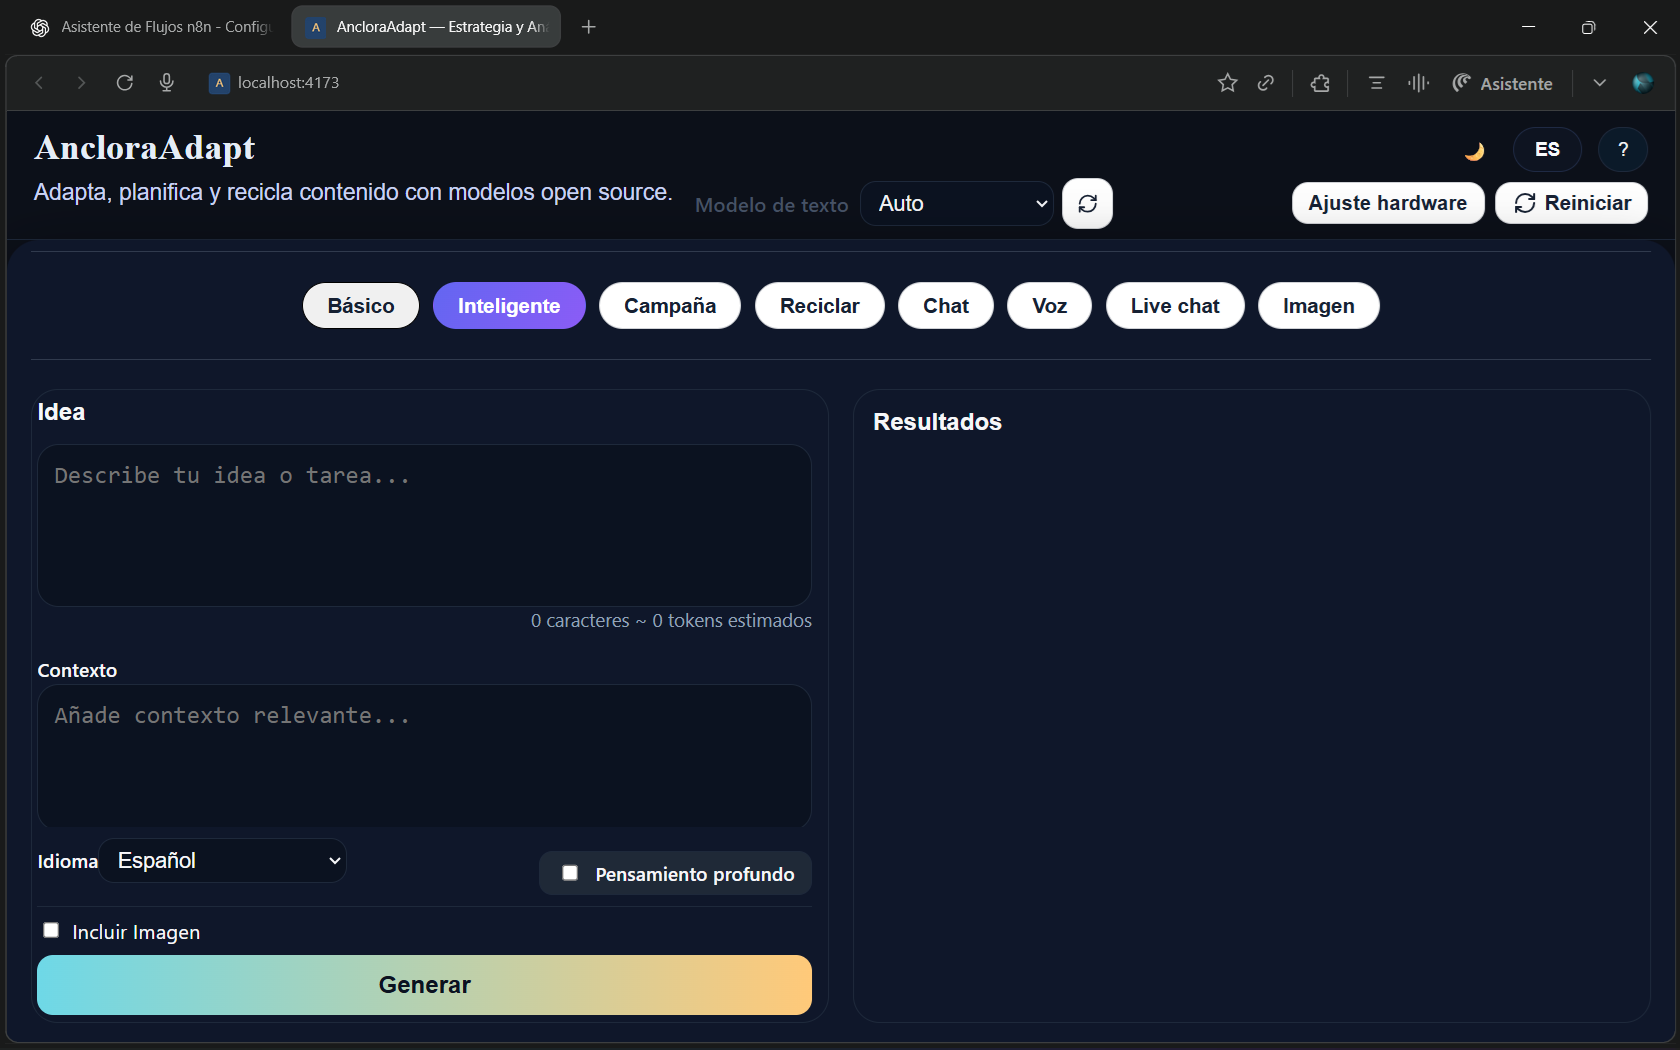
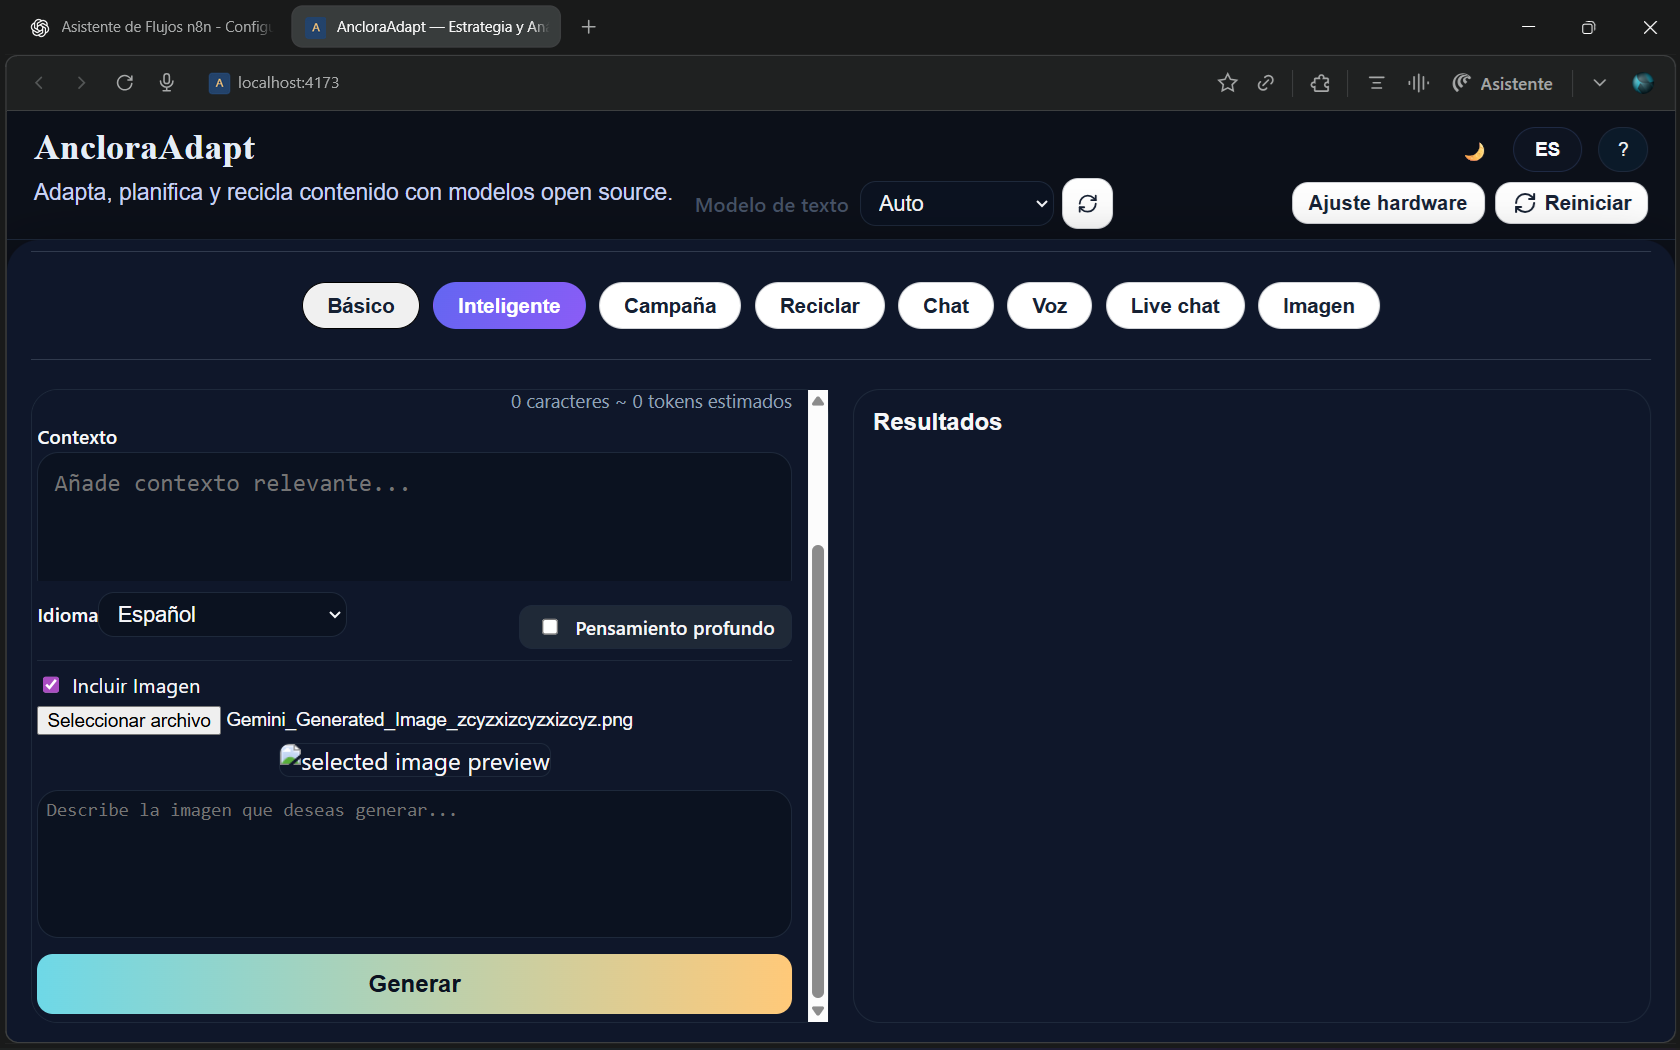
Análisis de los Cuatro Modos
1. Modo Básico ✅ (Lo tienes 100% claro)

  Propósito: Generar contenido adaptado para múltiples plataformas a partir de una idea
  principal.

  Funcionalidad clave:
  - Entrada: Una idea/concepto
  - Selecciona plataformas (LinkedIn, Instagram, Twitter, etc.)
  - Selecciona tono (profesional, casual, conversacional, etc.)
  - Selecciona velocidad (Detallado vs. Flash - rápido/corto)
  - Salida: Múltiples versiones de contenido, una por plataforma
  - Bonus: Opción de "traducción literal" que ignora tono y plataformas

  Prompt típico: "Crea contenido para [PLATAFORMAS]. Idea: [IDEA]. Tono: [TONO]. Velocidad:
  [DETALLADO/FLASH]"

  ---
  2. Modo Inteligente 🧠 (Es diferente del Campaña)

  Propósito: Estrategia y adaptación inteligente de un concepto a un contexto específico,
  con opción de generar imagen complementaria.

  Funcionalidad clave:
  - Entrada: Una necesidad/tarea (no una idea genérica)
  - Campo "Contexto/Destino" (equipo de ventas, newsletter, clientes específicos, etc.)
  - Pensamiento profundo (Deep Thinking): Elige si quieres que el modelo piense más o
  responda directo
  - Opcional: Genera imagen usando el mismo contexto
  - Salida: Respuestas JSON estructuradas pensadas para ese contexto específico

  ¿Qué lo hace "inteligente"?:
  - Adopta un rol de estratega (Rol: Estratega)
  - Toma en cuenta el contexto específico para personalizar la respuesta
  - Puede incluir razonamiento profundo si lo activas
[…]

diff --git a/src/components/modes/IntelligentModeForm.tsx b/src/components/modes/IntelligentModeForm.tsx
@@ -44,6 +44,7 @@ const IntelligentModeForm: React.FC<IntelligentModeFormProps> = ({
   onIncludeImageChange,
   imagePrompt,
   onImagePromptChange,
+  imageFile,
   imagePreview,
   onFileChange,
   languageOptions,
@@ -202,7 +203,7 @@ const IntelligentModeForm: React.FC<IntelligentModeFormProps> = ({
           onIncludeImageChange={onIncludeImageChange}
           imagePrompt={imagePrompt}
           onImagePromptChange={onImagePromptChange}
-          imageFile={null}
+          imageFile={imageFile}
           imagePreview={imagePreview}
           onFileChange={onFileChange}
           imagePromptPlaceholder="Describe la imagen que deseas generar..."
